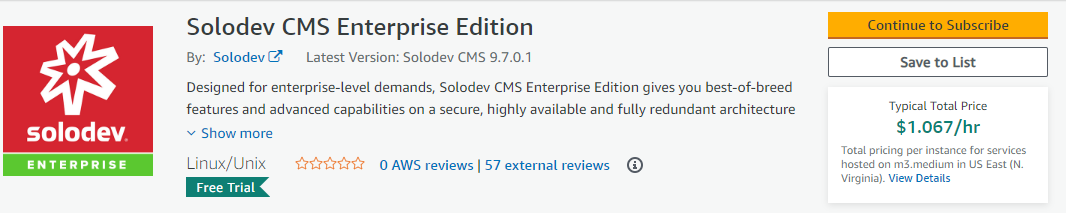
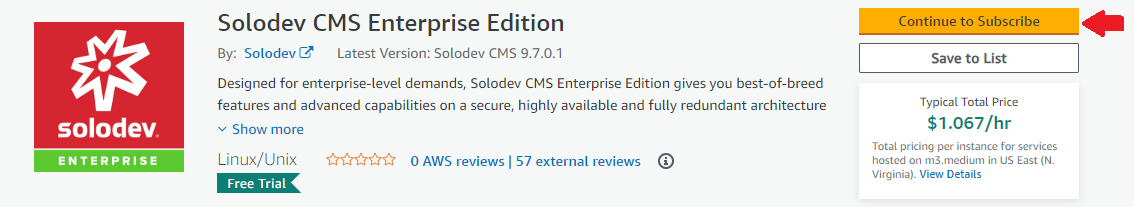
updated enterprise from step 1 - 4

diff --git a/src/Quickstart/Solodev Enterprise/index.md b/src/Quickstart/Solodev Enterprise/index.md
@@ -30,25 +30,33 @@ Once you’ve configured your **VPC** and **EC2 Key Pair**, you can launch your 
 ### Confirm Subscription
 Click on the "Continue to Subscribe" link within the AWS Marketplace listing. Once your subscription is processed, you will see confirmation and the "Continue to Configuration" button.
 
+<img src="../../images/enterprise-configuration.png" alt="Enterprise-Configuration" style="width: 100%; display: block"></a>
+
 ### Configure Solodev CMS Enterprise Edition
 Specify the basic configurables such as the software version and the region you wish to launch the stack. Click on the "Continue to Launch" button to proceed.
 
+<img src="../../images/enterprise-configuration1.png" alt="Enterprise-Configuration" style="width: 100%; display: block"></a>
+
 ### Launch Solodev CMS Enterprise Edition
 Confirm your configurations and choose "Launch CloudFormation" within the "Choose Action" field. Click on the "Launch" button to continue to CloudFormation.
+
+<img src="../../images/launch-enterprise.png" alt="Launch-Enterprise" style="width: 100%; display: block"></a>
 
 ## Step 4: Fill Out the CloudFormation Stack Wizard
 
 ### Continue with the preselected CloudFormation Template
 The Amazon S3 template URL (used for the CloudFormation configuration) should be preselected. Click "Next" to continue.
 
+<img src="../../images/create-enterprise-stack.png" alt="Create-Stack" style="width: 100%; display: block"></a>
+
 ### Specify Details
 The following parameters must be configured to launch your Solodev CMS CloudFormation stack:
-
-<img src="../../images/parameters-solodev-cms-opsworks.jpg" alt="Parameters " style="width: 100%; display: block"></a>
 
 **Parameter Description** | **Description** 
 :--- | ---
 Stack name | The name of your stack (set to "solodev-cms-opsworks" by default). Please note, the name must be all lowercase.
+
+<img src="../../images/enterprise-stack-name.png" alt="Parameters " style="width: 100%; display: block"></a>
 
 ###  Network Setup
 === VPCID 
@@ -63,6 +71,8 @@ Number of instances behind load balancer. Minimum 2 required for high availabili
 Name of an existing EC2 KeyPair to enable SSH access to the instances
 ===
 
+<img src="../../images/enterprise-parmeters.png" alt="Parameters " style="width: 100%; display: block"></a>
+
 ### CMS Settings
 === AdminUser
 The solodev admin username
@@ -74,27 +84,41 @@ The database root password
 Enable encryption for both Database (RDS) and Filesystem (EFS). True or False.
 ===
 
+<img src="../../images/cmsproawssubscribe9.png" alt="CMSEnterpriseSubscribe" style="width: 100%; display: block"></a>
+
 ### Optional: SSL Configuration
-=== FQDN
-URL for app. FQDN must be pointed to CNAME of ALB.
 === CertificateArn
 CertificateArn for SSL cert that matches the FQDN above. Please visit the AWS Certificate Manager.
 ===
 
+<img src="../../images/enterprise-ssl.png" alt="Parameters " style="width: 100%; display: block"></a>
+
 ### Optional: Advanced
+=== WebsiteURL
+Name of initital Solodev website
 === RestoreBucketName
 Name of S3 bucket containing files for restore
-=== CookbookURL
-<a href="https://s3.amazonaws.com/solodev-aws-ha/cookbooks.tar.gz">https://s3.amazonaws.com/solodev-aws-ha/cookbooks.tar.gz</a> | Download and host on your own S3 bucket or copy this URL.
 === DeletionPolicy
 Experimental: Deletion Policy (Retain, Delete, Snapshot)
+=== RedisEnabled
+Enable Redis ElastiCache cluster
+=== AdminEnabled
+Enable Admin Layer
 ===
+
+<img src="../../images/enterprise-advanced.png" alt="Parameters " style="width: 100%; display: block"></a>
 
 ### Specify Options
 Generally speaking, no additional options need to be configured. If you are experiencing continued problems installing the software, disable "Rollback on failure" under the "Advanced" options. This will allow for further troubleshooting if necessary. Click on the "Next" button to continue.
 
+<img src="../../images/specific-options1.png" alt="Parameters " style="width: 100%; display: block"></a>
+<img src="../../images/specific-options2.png" alt="Parameters " style="width: 100%; display: block"></a>
+<img src="../../images/specific-options3.png" alt="Parameters " style="width: 100%; display: block"></a>
+
 ### Review
 Review all CloudFront details and options. Ensure that the "I acknowledge that AWS CloudFormation might create IAM resources with custom names" checkbox is selected as well as the "I acknowledge that AWS CloudFormation might require the following capability: CAPABILITY_AUTO_EXPAND" checkbox. Click on the "Create" button to launch your stack.
+
+<img src="../../images/cmsproawssubscribe12.png" alt="CMSProSubscribe" style="width: 100%; display: block"></a>
 
 ## Step 5: Monitor the CloudFormation Stack Creation Process
 Upon launching your CloudFormation stack, you will be able to monitor the installation logs under the "Events" tab. The CloudFormation template will launch several stacks related to your Solodev instance including EFS, EDS, and EC2. If you encounter any failures during this time, please visit the <a href="https://github.com/solodev/aws/wiki/Common-Issues">Common Issues</a> page to begin troubleshooting.
